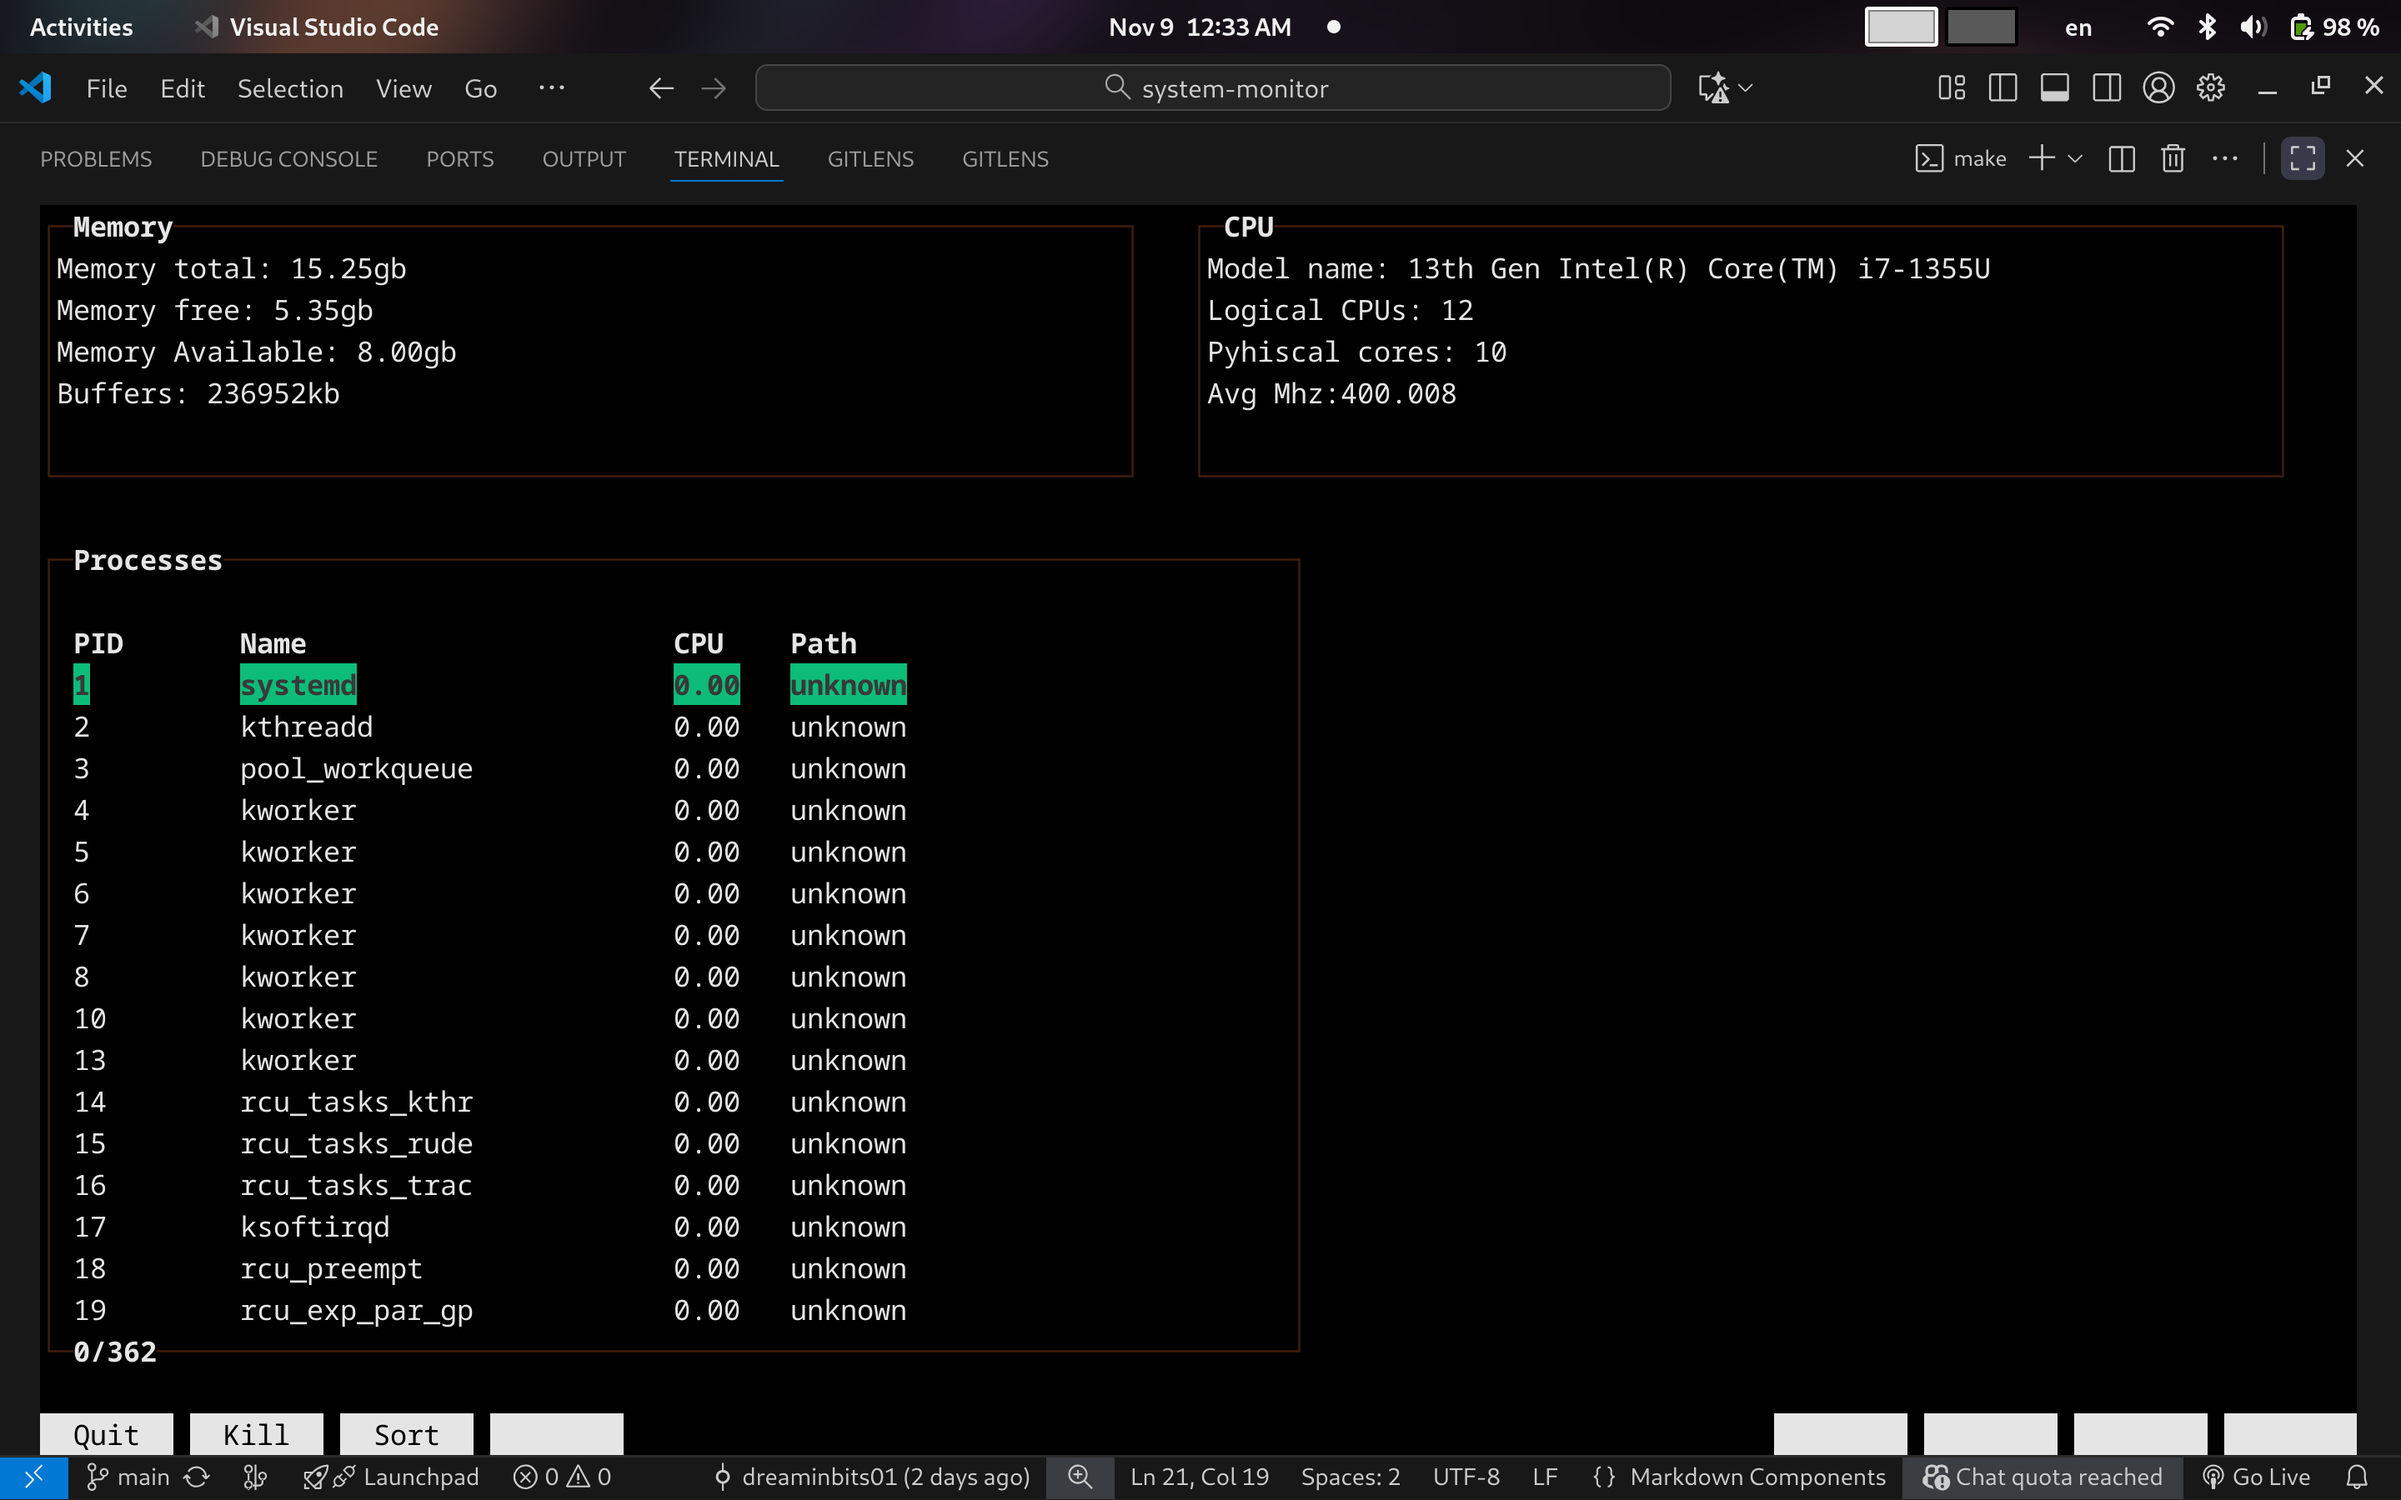
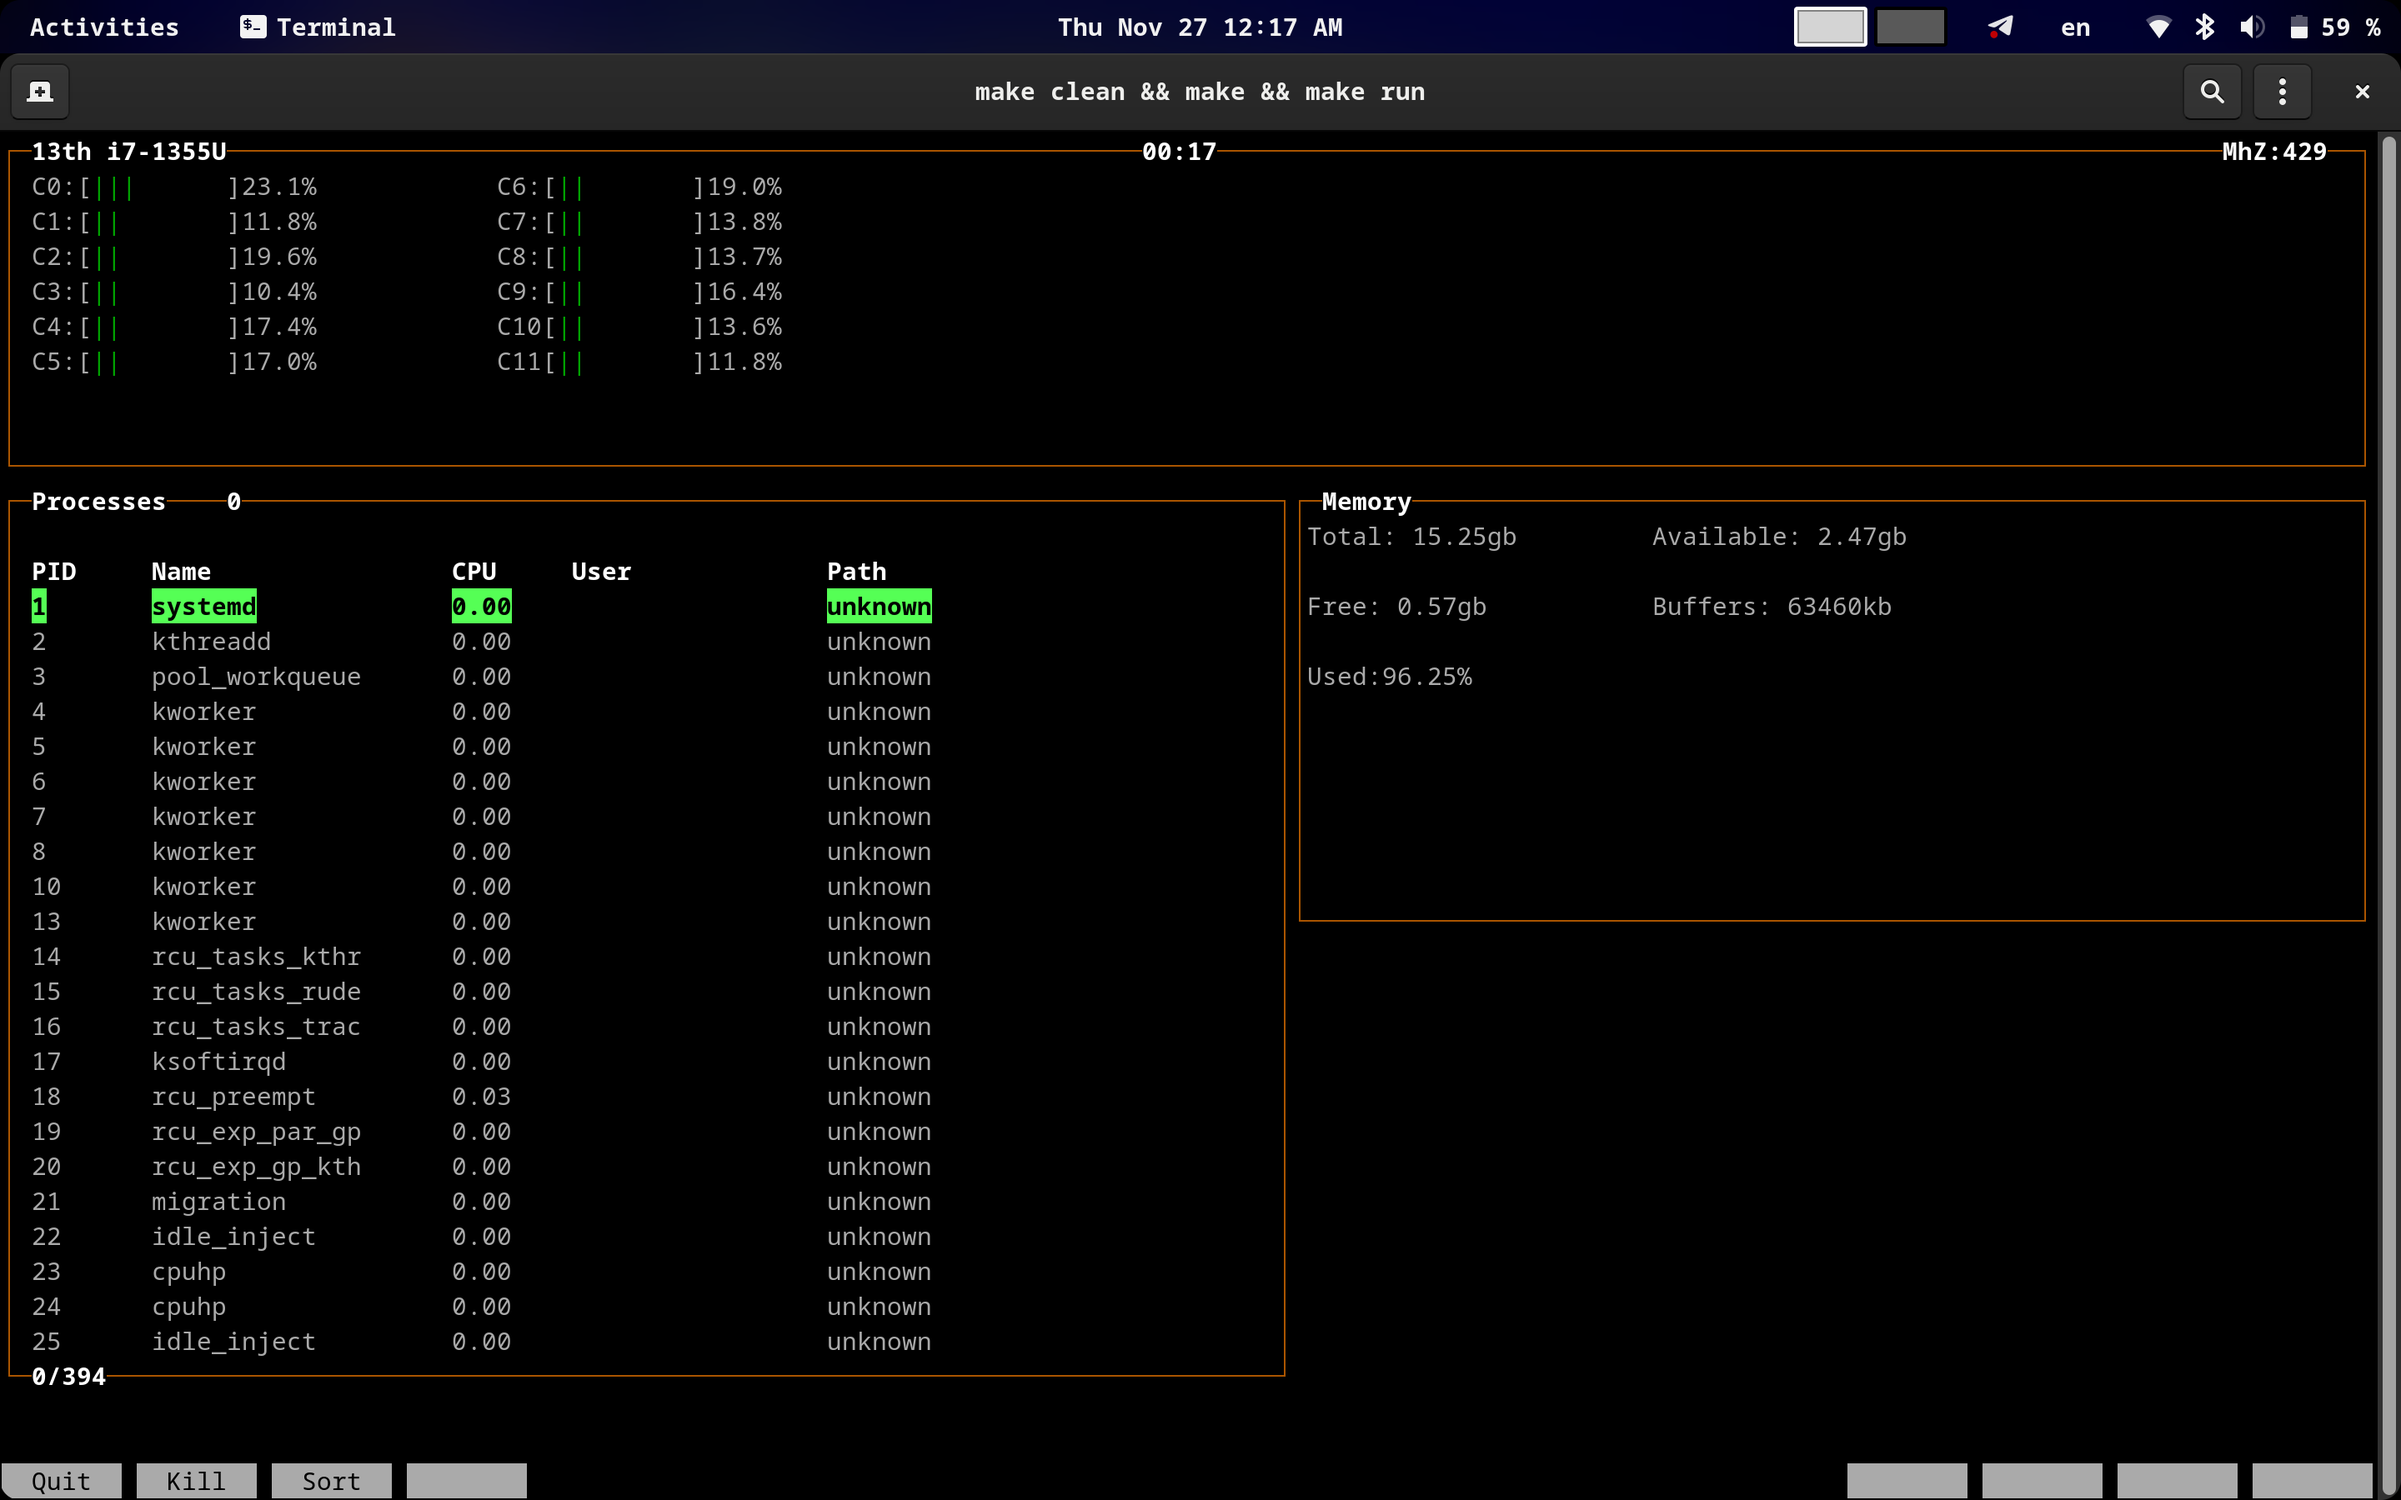
refactor: update memory display formatting and adjust CPU usage calculation threshold

diff --git a/src/core/memory/index.c b/src/core/memory/index.c
@@ -12,12 +12,12 @@ void show_memory_data(MemoryBlock *data)
     double used_percent = (data->data.total - data->data.free) / data->data.total * 100;
     // get a fraction and multiply it by the width
     int memory_bar_fill = (int)((float)used_percent / 100 * data->bar_width);
-    mvwprintw(data->window.itself, 1, 1, "Memory total: %.2fgb", data->data.total);
-    mvwprintw(data->window.itself, 2, 1, "Memory free: %.2fgb", data->data.free);
-    mvwprintw(data->window.itself, 3, 1, "Memory Available: %.2fgb", data->data.available);
-    mvwprintw(data->window.itself, 4, 1, "Buffers: %lukb", data->data.buffers);
-    mvwprintw(data->window.itself, 6, 1, "Used memory:%.2f%%", used_percent);
-    build_loadbar(data->window.itself, memory_bar_fill, data->bar_width, 7, 1);
+    mvwprintw(data->window.itself, 1, 1, "Total: %.2fgb", data->data.total);
+    mvwprintw(data->window.itself, 1, data->window.width / 3, "Available: %.2fgb", data->data.available);
+    mvwprintw(data->window.itself, 3, 1, "Free: %.2fgb", data->data.free);
+    mvwprintw(data->window.itself, 3, data->window.width / 3, "Buffers: %lukb", data->data.buffers);
+    mvwprintw(data->window.itself, 5, 1, "Used:%.2f%%", used_percent);
+    // build_loadbar(data->window.itself, memory_bar_fill, data->bar_width, 4, data->window.width / 3);
     wattron(data->window.itself, COLOR_PAIR(4));
     box(data->window.itself, 0, 0);
     wattroff(data->window.itself, COLOR_PAIR(4));

diff --git a/src/context/helpers.c b/src/context/helpers.c
@@ -91,8 +91,6 @@ bool initialize_memory_context(MemoryBlock **data, int max_rows, int max_cols)
     if (*data == NULL)
         return false;
     memset(*data, 0, sizeof(MemoryBlock));
-    // (*data)->window.height = max_rows * .25;
-    // (*data)->window.width = max_cols * .48;
     (*data)->window.y = (int)(max_rows * .28);
     (*data)->window.x = (int)(max_cols * .55);
     (*data)->window.height = (int)(.35 * max_rows);
@@ -102,7 +100,7 @@ bool initialize_memory_context(MemoryBlock **data, int max_rows, int max_cols)
         (*data)->window.width,
         (*data)->window.y,
         (*data)->window.x);
-    (*data)->bar_width = max_cols / 4;
+    (*data)->bar_width = (*data)->window.width / 5;
     return true;
 }
 void cleanup_memory_context(MemoryBlock *data)

diff --git a/src/core/cpu/helpers.c b/src/core/cpu/helpers.c
@@ -77,7 +77,7 @@ void parse_procstat_cpu_line(char *line, void *data)
         // Calculate delta
         unsigned long long total_time_delta = current_total_time - cpu_data->cores[index].prev_total_time;
         unsigned long long active_time_delta = current_active_time - cpu_data->cores[index].prev_active_time;
-        if (total_time_delta > 25 && cpu_data->cores[index].prev_total_time > 0)
+        if (total_time_delta > 50 && cpu_data->cores[index].prev_total_time > 0)
         {
             double cpu_usage = (double)active_time_delta / (double)total_time_delta * 100;
             cpu_data->cores[index].usage = cpu_usage;
